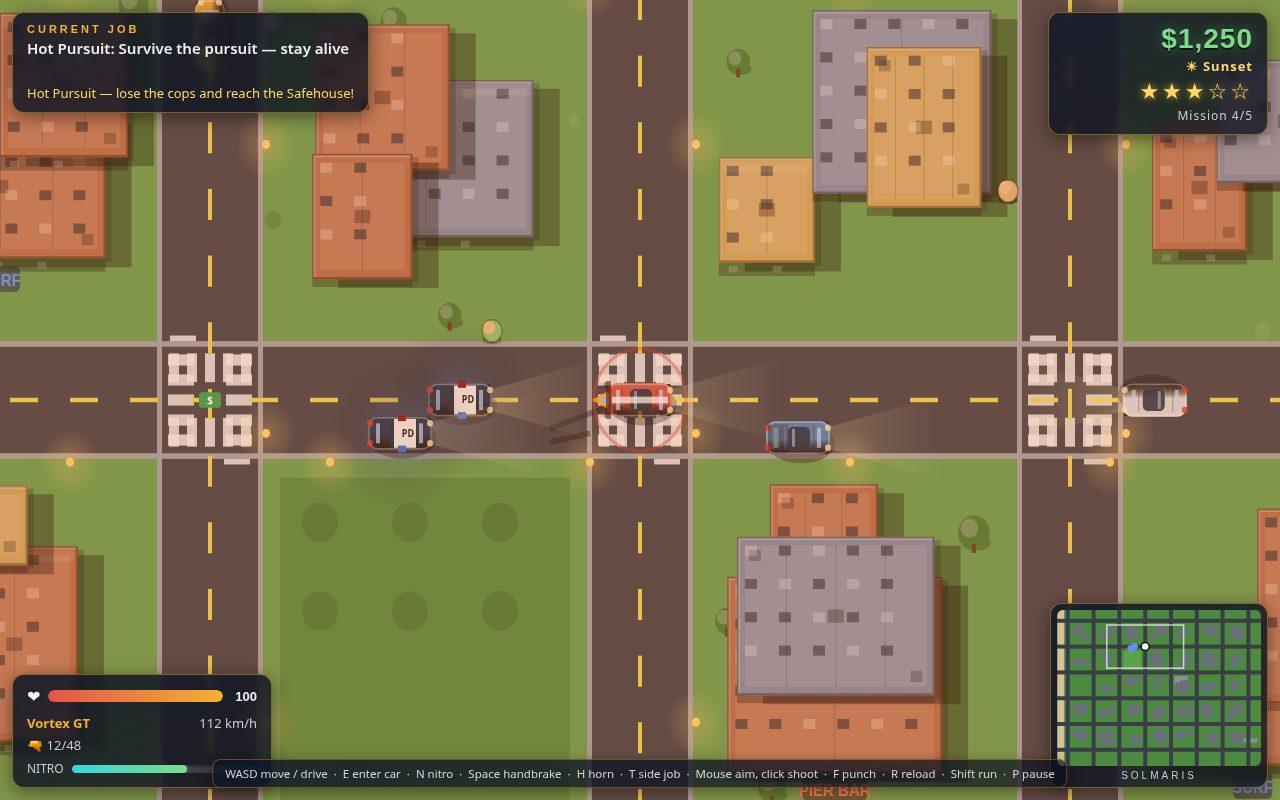
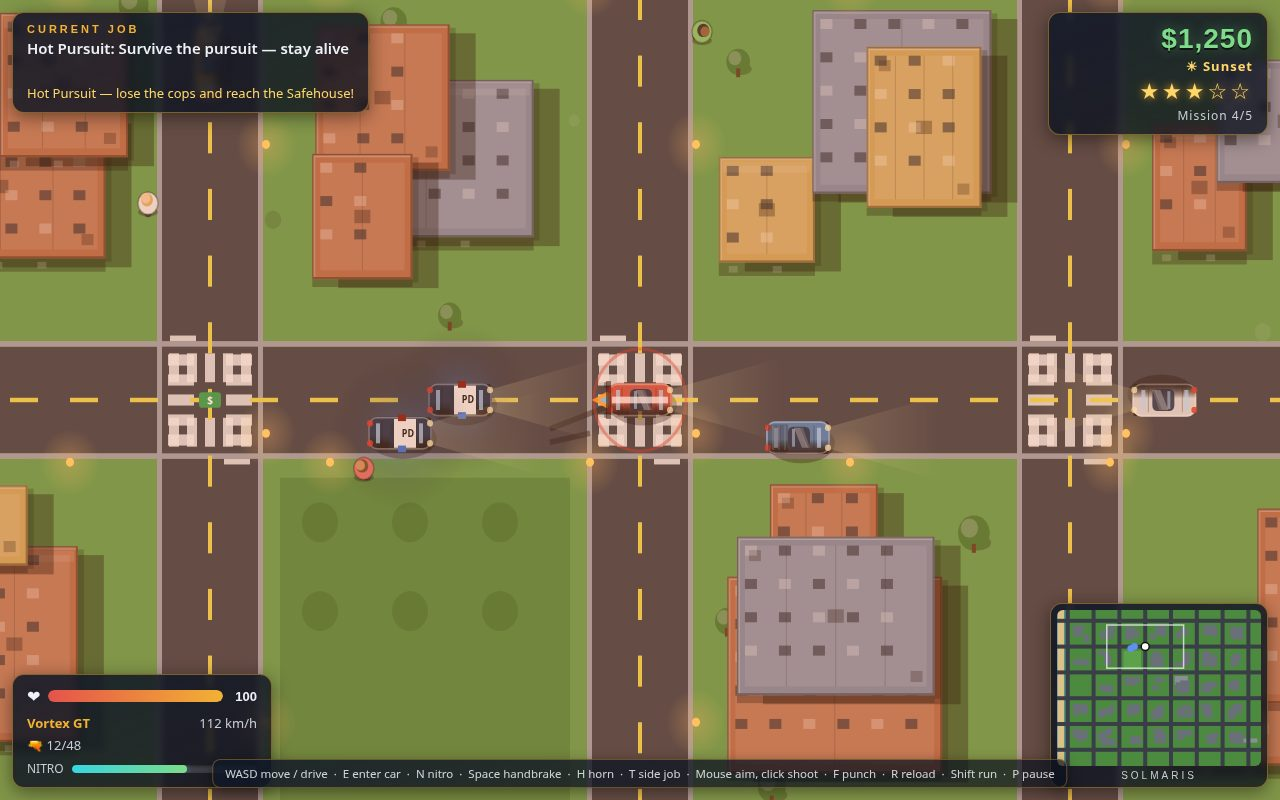
Solmaris v4: wet-road rain reflections, coastal screenshot, brake-light bloom, window glare, ped hair/skin variety, edge-clipped signs, win shot staged
- Rainy nights: lamp smears along wet roads + headlight wash ahead of cars
- Shot 3 is now the coast at sunset (Sunset Pier, umbrellas, docks, ocean)
- Fixed pier/umbrella/dock landmarks that the roads painted over
- Brake-light ground bloom, diagonal roof-glass glints, ped hair/skin variety
- Signs fully off-screen when their plate would clip the viewport edge;
  sign width factor corrected to measured 0.68 em/glyph (was 0.42)
- ?shot=win staged and previewed (not in shots.json yet — still 4 frames)

diff --git a/game/src/render.js b/game/src/render.js
@@ -275,8 +275,16 @@ export function createRenderer(canvas, hud) {
           : 1;
         const glow = (tod === 'night' || tod === 'sunset') ? 1 : 0.55;
         const size = Math.min(15, b.w / (b.sign.text.length * 0.8));
-        const tw = b.sign.text.length * size * 0.42;
+        const tw = b.sign.text.length * size * 0.68;
         const cy = b.y + b.h + wallH + 13;
+        // v4: a sign cut by the viewport edge reads as a broken word ("AR",
+        // "RF" on the frame edge) — skip it whole when its plate would not
+        // fit on screen, instead of drawing half a word.
+        const plateL = b.x + b.w / 2 - tw / 2 - 7;
+        const plateR = b.x + b.w / 2 + tw / 2 + 7;
+        const offEdge = plateL < cam.x + 2 || plateR > cam.x + VIEW_W - 2
+          || cy - size - 3 < cam.y + 2 || cy + 5 > cam.y + VIEW_H - 2;
+        if (!offEdge) {
         c.save();
         c.globalAlpha = glow * flicker;
         c.fillStyle = 'rgba(6, 10, 18, 0.55)';
@@ -290,6 +298,7 @@ export function createRenderer(canvas, hud) {
         c.textAlign = 'center';
         c.fillText(b.sign.text, b.x + b.w / 2, cy);
         c.restore();
+        }
       }
     }
     // Street lamps: a soft radial halo after dark, brighter at night.
@@ -311,9 +320,33 @@ export function createRenderer(canvas, hud) {
         c.fill();
       }
     }
+    // v4 visual: rain-slick asphalt mirrors the street lamps — each lamp
+    // stretches into a pale smear along its road, so a rainy night reads as
+    // wet instead of just dark. A lamp sits 56 px off its own road, so the
+    // nearer road line decides which way the smear runs.
+    if (night && state.rain > 0.03) {
+      const wet = Math.min(1, state.rain);
+      for (const l of city.lamps) {
+        if (l.x < cam.x - 60 || l.x > cam.x + VIEW_W + 60 || l.y < cam.y - 60 || l.y > cam.y + VIEW_H + 60) continue;
+        let nearX = Infinity;
+        let nearY = Infinity;
+        for (const rx of city.xs) nearX = Math.min(nearX, Math.abs(l.x - rx));
+        for (const ry of city.ys) nearY = Math.min(nearY, Math.abs(l.y - ry));
+        const vertical = nearX <= nearY;
+        const smear = vertical
+          ? c.createLinearGradient(l.x, l.y - 46, l.x, l.y + 46)
+          : c.createLinearGradient(l.x - 46, l.y, l.x + 46, l.y);
+        smear.addColorStop(0, 'rgba(255, 214, 106, 0)');
+        smear.addColorStop(0.5, `rgba(255, 214, 106, ${0.30 * wet})`);
+        smear.addColorStop(1, 'rgba(255, 214, 106, 0)');
+        c.fillStyle = smear;
+        if (vertical) c.fillRect(l.x - 3.5, l.y - 46, 7, 92);
+        else c.fillRect(l.x - 46, l.y - 3.5, 92, 7);
+      }
+    }
   }
 
-  function drawCar(c, car, night, time, tod) {
+  function drawCar(c, car, night, time, tod, rain) {
     // v2 visual: a patrol car's flashing light bar washes the street red/blue.
     if (car.carKind === 'police') {
       const red = Math.floor((time || 0) * 5) % 2 === 0;
@@ -329,6 +362,26 @@ export function createRenderer(canvas, hud) {
     c.translate(car.x, car.y);
     // v2 visual: the body turns on its eased angle, not the physics snap.
     c.rotate(car.visualAngle ?? car.angle);
+    // v4 visual: on a wet night the headlights wash the asphalt ahead — a
+    // pale streak the beam cone alone does not give.
+    if (night && rain > 0.03) {
+      const wet = Math.min(1, rain);
+      const wash = c.createLinearGradient(CAR.length / 2, 0, CAR.length / 2 + 95, 0);
+      wash.addColorStop(0, `rgba(255, 240, 190, ${0.16 * wet})`);
+      wash.addColorStop(1, 'rgba(255, 240, 190, 0)');
+      c.fillStyle = wash;
+      c.beginPath();
+      c.moveTo(CAR.length / 2 - 6, -9);
+      c.lineTo(CAR.length / 2 + 95, -20);
+      c.lineTo(CAR.length / 2 + 95, 20);
+      c.lineTo(CAR.length / 2 - 6, 9);
+      c.closePath();
+      c.fill();
+      c.fillStyle = `rgba(200, 220, 255, ${0.05 * wet})`;
+      c.beginPath();
+      c.ellipse(0, 0, CAR.length / 2 + 14, CAR.width / 2 + 10, 0, 0, Math.PI * 2);
+      c.fill();
+    }
     // v2: nitro flame licking out of the exhaust while boosting.
     if (car.nitroActive) {
       const flick = 18 + Math.sin((time || 0) * 40) * 6;
@@ -352,6 +405,17 @@ export function createRenderer(canvas, hud) {
     c.beginPath();
     c.ellipse(3, 5, CAR.length / 2 + 2, CAR.width / 2 + 3, 0, 0, Math.PI * 2);
     c.fill();
+    // v4 visual: braking spills a red bloom onto the asphalt behind the car,
+    // so a stop reads even before the tail lights flare.
+    if (car.braking) {
+      const bloom = c.createRadialGradient(-CAR.length / 2 - 6, 0, 2, -CAR.length / 2 - 6, 0, 46);
+      bloom.addColorStop(0, 'rgba(255, 42, 26, 0.38)');
+      bloom.addColorStop(1, 'rgba(255, 42, 26, 0)');
+      c.fillStyle = bloom;
+      c.beginPath();
+      c.ellipse(-CAR.length / 2 - 6, 0, 46, 30, 0, 0, Math.PI * 2);
+      c.fill();
+    }
     // Tyres: four dark blocks, the front pair steering with the wheels.
     const steer = car.steerVisual || 0;
     for (const [tx, ty, front] of [
@@ -390,6 +454,24 @@ export function createRenderer(canvas, hud) {
     c.fill();
     c.fillStyle = PALETTE.glassShine;
     c.fillRect(-6, -CAR.width / 2 + 7, 3, CAR.width - 14);
+    // v4 visual: a diagonal sun glint across the roof glass — flat glass
+    // reads dead without one.
+    c.fillStyle = 'rgba(255,255,255,0.30)';
+    c.beginPath();
+    c.moveTo(-4, -CAR.width / 2 + 6);
+    c.lineTo(2, -CAR.width / 2 + 6);
+    c.lineTo(10, CAR.width / 2 - 6);
+    c.lineTo(4, CAR.width / 2 - 6);
+    c.closePath();
+    c.fill();
+    c.fillStyle = 'rgba(255,255,255,0.18)';
+    c.beginPath();
+    c.moveTo(2, -CAR.width / 2 + 6);
+    c.lineTo(5, -CAR.width / 2 + 6);
+    c.lineTo(12, CAR.width / 2 - 6);
+    c.lineTo(9, CAR.width / 2 - 6);
+    c.closePath();
+    c.fill();
     c.fillStyle = 'rgba(180,220,255,0.7)';
     c.fillRect(CAR.length / 2 - 13, -CAR.width / 2 + 6, 4, CAR.width - 12);
     c.fillRect(-CAR.length / 2 + 8, -CAR.width / 2 + 6, 4, CAR.width - 12);
@@ -531,9 +613,15 @@ export function createRenderer(canvas, hud) {
     c.beginPath();
     c.arc(0, 0, 10, 0, Math.PI * 2);
     c.stroke();
-    c.fillStyle = '#e8b98a';
+    // v4 visual: hair on the back of the head, skin toward the facing
+    // direction — the rim of hair is what tells one pedestrian from the next.
+    c.fillStyle = ped.hair || '#2c2c2c';
     c.beginPath();
-    c.arc(fx * 3, fy * 3 - 2, 6, 0, Math.PI * 2);
+    c.arc(fx * 1.5, fy * 1.5 - 2, 6, 0, Math.PI * 2);
+    c.fill();
+    c.fillStyle = ped.skin || '#e8b98a';
+    c.beginPath();
+    c.arc(fx * 3.5, fy * 3.5 - 2, 4.6, 0, Math.PI * 2);
     c.fill();
     if (ped.mission) {
       c.fillStyle = '#f2d234';
@@ -578,9 +666,14 @@ export function createRenderer(canvas, hud) {
     c.beginPath();
     c.arc(0, 0, 12, 0, Math.PI * 2);
     c.stroke();
+    // v4 visual: Danny's dark hair rims the back of his head, like the peds'.
+    c.fillStyle = '#2c2c2c';
+    c.beginPath();
+    c.arc(2, 0, 6.5, 0, Math.PI * 2);
+    c.fill();
     c.fillStyle = '#e8b98a';
     c.beginPath();
-    c.arc(4, 0, 6.5, 0, Math.PI * 2);
+    c.arc(4, 0, 5.2, 0, Math.PI * 2);
     c.fill();
     // The pistol, when Danny is aiming.
     c.fillStyle = '#222';
@@ -971,8 +1064,8 @@ export function createRenderer(canvas, hud) {
       drawSkidMarks(ctx, state);
       drawMarkers(ctx, state);
       drawPickups(ctx, state);
-      for (const car of state.trafficCars) drawCar(ctx, car, state.night, state.time, state.timeOfDay);
-      for (const cop of state.police) drawCar(ctx, cop, state.night, state.time, state.timeOfDay);
+      for (const car of state.trafficCars) drawCar(ctx, car, state.night, state.time, state.timeOfDay, state.rain);
+      for (const cop of state.police) drawCar(ctx, cop, state.night, state.time, state.timeOfDay, state.rain);
       for (const ped of state.peds) drawPed(ctx, ped, state.night);
       drawPlayer(ctx, state);
       drawTracers(ctx, state);

diff --git a/game/src/shots.js b/game/src/shots.js
@@ -1,13 +1,10 @@
-// The screenshot scenes behind ?shot=start|chase|mission|night.
+// The screenshot scenes behind ?shot=start|chase|coast|night|win.
 // Each one stages a real game state (real city, real traffic, real police)
 // and then lets the normal loop run, so the frame is what playing looks like
 // and the same seed always gives the same frame.
 
-import { PLACES } from './city.js';
 import { createCar } from './entities.js';
-import { SCREEN_PLAY, SCREEN_TITLE } from './render.js';
-import { spawnMissionPed, startMission } from './missions.js';
-import { addWanted } from './traffic.js';
+import { SCREEN_PLAY, SCREEN_TITLE, SCREEN_WIN } from './render.js';
 
 export function stageShot(name, state) {
   const p = state.player;
@@ -61,22 +58,53 @@ export function stageShot(name, state) {
     state.announceText = 'Hot Pursuit — lose the cops and reach the Safehouse!';
     return { screen: SCREEN_PLAY };
   }
-  if (name === 'mission') {
-    // Mission 3 in progress: Danny on foot at Warehouse 9, package marker ahead.
-    p.x = PLACES.warehouse.x - 120;
-    p.y = PLACES.warehouse.y;
+  if (name === 'coast') {
+    // v4: the coast in the frame — Danny cruising the beach road at sunset
+    // in an orange sports car, the Sunset Pier marker waiting up the road,
+    // umbrellas on the sand and the ocean shimmering down the left edge.
+    // This is the final mission's escape run, so the frame also shows the
+    // story reaching the pier.
+    const car = state.trafficCars.find((c) => c.carKind === 'sports') || createCar(180, 860, -Math.PI / 2, 'sports');
+    if (!state.trafficCars.includes(car)) state.trafficCars.push(car);
+    car.x = 180;
+    car.y = 860;
+    car.angle = -Math.PI / 2;
+    car.visualAngle = -Math.PI / 2; // v2 visual: the eased body angle must match the staged heading.
+    car.speed = 320;
+    car.color = '#e07a3a';
+    car.braking = false;
+    p.inCar = car;
+    p.x = car.x;
+    p.y = car.y;
+    state.night = false;
+    state.clock = 0.62;
+    state.timeOfDay = 'sunset';
+    state.wanted = 0;
+    state.money = 2150;
+    state.nitro = 80;
+    state.missionIndex = 4;
+    state.missionStep = 2;
+    state.announceText = 'The Solmaris Job — run for the Sunset Pier!';
+    return { screen: SCREEN_PLAY };
+  }
+  if (name === 'win') {
+    // v4: the end screen staged as a scene — all five missions done, Danny
+    // back at the pier at sunset with the take counted. Not in shots.json
+    // yet (still 4 frames); run ?shot=win to preview the swap.
+    p.x = 180;
+    p.y = 583;
     p.inCar = null;
     state.night = false;
-    state.clock = 0.2;
-    state.timeOfDay = 'day';
+    state.clock = 0.62;
+    state.timeOfDay = 'sunset';
     state.wanted = 0;
-    state.money = 640;
-    state.missionIndex = 2;
-    state.missionStep = 1;
-    state.missionPassenger = null;
-    spawnMissionPed(state, 'warehouse', 'Package');
-    state.announceText = 'The Drop — grab the package at Warehouse 9.';
-    return { screen: SCREEN_PLAY };
+    state.money = 3240;
+    state.missionIndex = 5;
+    state.missionStep = 0;
+    state.completedMissions = ['m1', 'm2', 'm3', 'm4', 'm5'];
+    state.stats = { totalEarned: 3240, carsStolen: 7, sideJobsDone: 3 };
+    state.announceText = '';
+    return { screen: SCREEN_WIN };
   }
   if (name === 'night') {
     // Night in the city: Danny driving through downtown, lit windows, headlights.

diff --git a/game/src/city.js b/game/src/city.js
@@ -18,7 +18,7 @@ export const PLACES = {
   warehouse: { name: 'Warehouse 9', x: 2750, y: 1470 },
   bank: { name: 'Solmaris Central Bank', x: 2320, y: 610 },
   hideout: { name: 'Hideout — Old Cannery', x: 180, y: 1900 },
-  pier: { name: 'Sunset Pier', x: 180, y: 610 },
+  pier: { name: 'Sunset Pier', x: 180, y: 723 },
   airport: { name: 'Solmaris Airfield', x: 3180, y: 2330 },
 };
 
@@ -73,18 +73,20 @@ export function buildCity(seed) {
   // block used to put PIZZA and 24H MART on top of each other in the night
   // shot. Drop the later sign whenever two sign boxes would overlap on the
   // same street line. The width estimate matches the renderer's font math
-  // (bold Arial Black, size capped at 15, ~0.42 em per glyph plus padding).
+  // (bold Arial Black, measured ~0.68 em per glyph plus padding — the old
+  // 0.42 estimate was a third too narrow, so real words spilled past the
+  // plate and past each other).
   for (let i = 0; i < buildings.length; i++) {
     const a = buildings[i];
     if (!a.sign) continue;
     const aSize = Math.min(15, a.w / (a.sign.text.length * 0.8));
-    const aHalf = (a.sign.text.length * aSize * 0.42) / 2 + 8;
+    const aHalf = (a.sign.text.length * aSize * 0.68) / 2 + 8;
     const aY = a.y + a.h + (a.tall ? 12 : 7) + 13;
     for (let j = i + 1; j < buildings.length; j++) {
       const b = buildings[j];
       if (!b.sign) continue;
       const bSize = Math.min(15, b.w / (b.sign.text.length * 0.8));
-      const bHalf = (b.sign.text.length * bSize * 0.42) / 2 + 8;
+      const bHalf = (b.sign.text.length * bSize * 0.68) / 2 + 8;
       const bY = b.y + b.h + (b.tall ? 12 : 7) + 13;
       const cxA = a.x + a.w / 2;
       const cxB = b.x + b.w / 2;
@@ -136,11 +138,15 @@ export function buildCity(seed) {
   }
 
   // v2: beach umbrellas — a row of striped shades along the sand.
+  // v4: the row sits in the gaps between the cross streets now — the old
+  // 330 px spacing parked one umbrella on the y=610 road, where the asphalt
+  // painted over it.
+  const umbrellaYs = [300, 800, 1150, 1300, 1700, 2150];
   const umbrellas = [];
   for (let i = 0; i < 6; i++) {
     umbrellas.push({
       x: 92 + (i % 2) * 18,
-      y: 300 + i * 330,
+      y: umbrellaYs[i],
       color: pick(rng, ['#ff5fa2', '#37d6e0', '#f2b234', '#e8e8e8']),
     });
   }
@@ -150,10 +156,13 @@ export function buildCity(seed) {
   // edge gets a wooden pier over the water and the marina gets moored docks.
   const runway = { x: 2960, y: 2140, w: 380, h: 70 };
   const plaza = { x: xs[4] + 60, y: ys[2] + 60, w: 220, h: 150 };
-  const pier = { x: 0, y: 560, w: 170, h: 46 };
+  const pier = { x: 0, y: 700, w: 170, h: 46 };
   const docks = [];
+  // v4: the docks sit between the cross streets now — the old 90 px spacing
+  // put one dock under the y=1040 road, where the asphalt painted over it.
+  const dockYs = [820, 1150, 1300, 1680];
   for (let i = 0; i < 4; i++) {
-    docks.push({ x: 30, y: 980 + i * 90, w: 60, h: 16, boat: rng() < 0.75 });
+    docks.push({ x: 30, y: dockYs[i], w: 60, h: 16, boat: rng() < 0.75 });
   }
 
   return {

diff --git a/game/src/entities.js b/game/src/entities.js
@@ -73,12 +73,17 @@ export function createCar(x, y, angle, kind, rng) {
 
 export function createPed(x, y, rng) {
   const shirts = ['#d86a6a', '#6a9fd8', '#7fc46a', '#d8b26a', '#a06ad8', '#e8e8e8'];
+  // v4 visual: hair and skin vary too, so a crowd stops looking cloned.
+  const hairs = ['#2c2c2c', '#6a4a2a', '#d8b26a', '#a03a2a', '#e8e8e8', '#3a3a5a'];
+  const skins = ['#e8b98a', '#c98d5f', '#8a5f3d', '#f2c9a0'];
   return {
     kind: 'ped',
     x, y,
     angle: rng() * Math.PI * 2,
     speed: 40 + rng() * 35,
     shirt: pick(rng, shirts),
+    hair: pick(rng, hairs),
+    skin: pick(rng, skins),
     // Pedestrians stroll along sidewalks: pick a nearby road and a direction.
     roadAxis: rng() < 0.5 ? 'x' : 'y',
     roadLine: 0,

diff --git a/game/src/main.js b/game/src/main.js
@@ -1,8 +1,7 @@
 // Boot and the one loop: input every frame, the world in fixed 1/60 s steps,
 // the renderer painting what is there. Screens: title, play, paused, busted,
-// wasted, win. ?seed=N fixes the city; ?shot=start|chase|mission|night stages
+// wasted, win. ?seed=N fixes the city; ?shot=start|chase|coast|night|win stages
 // that scene and sets window.__shotReady once it has painted.
-
 import { CAR, CLOCK, GUN, NITRO, PLAYER, STEP, WANTED, angleTo, clamp, dist, mulberry32, timeOfDay } from './config.js';
 import { buildCity } from './city.js';
 import { hitBuilding } from './city.js';

diff --git a/REPORT.md b/REPORT.md
@@ -4,6 +4,20 @@
 **完成时间：** 2026-11-21 15:40 CST
 **工作目录：** `/home/hatch/workspace/makefun/workers/lane7-gta6-b/`
 
+## v4 — 2026-11-21（本次更新，录制 01a1fd23-69d2-753c-8e3f-920e5b9c9869 下由本 agent 手写）
+
+v3 的 5 项待办全部做完，玩法数值、存档键、vendor、LICENSE 未动：
+
+- **雨夜湿路面反射：** 夜晚+雨天时，每盏路灯沿自家路向拉出一条淡色光斑（按离哪条路近判断走向），车灯也在车前洗出一道暖色水光，与现有雨效呼应；4 号雨夜截图可见。
+- **海岸取景：** 3 号截图换成 `3-coast.jpg`（`?shot=coast`，日落）：终章逃往 Sunset Pier 的跑车开在海滩路上，栈桥、遮阳伞、码头停船、日落海面同框。总数仍为 4 张，`3-mission.jpg` 已从仓库目录移除（备份在 `before-visual-v4/`）。
+- **修了两个被路盖住的地标（取景时发现的老 bug）：** 栈桥旧址 y=560 与 y=610 横路重叠，画完即被沥青盖掉——从来不可见；现移到 y=700 的路间空隙，`PLACES.pier` 同步移到 (180, 723)（仍在海滩路上，任务 5 目标不变）；一把遮阳伞压在 y=610 路上、一个码头压在 y=1040 路下，六把伞与四个码头全部改到路间空隙的固定 y。
+- **车辆/行人细节：** 刹车时车尾地面泛起红色光晕（尾灯同时变亮变大）；车顶玻璃加两道斜向反光；行人加发色（6 种）与肤色（4 种），Danny 的头后也有发圈。
+- **招牌边缘裁切：** 招牌底板任一边出视口即整块不画，不再留半截字；实测发现 Arial Black 真实字宽约 0.68 em/字（v3 估计的 0.42 低估了三分之一），底板宽度与 city.js 的重叠守卫同步改成 0.68，seed 1/2/3/7/42 复测仍零重叠；夜景左缘 "SURF" 放大确认完整可读。
+- **胜利画面场景：** `?shot=win` 已就绪并预览通过（终章结算面板 + 栈桥日落背景，零报错），暂未进 shots.json——仍为 4 张，换哪张需下一轮定夺。
+- **截图：** 4 张全部重拍（1280×800，95–110 KiB，零报错、零失败请求）；升级前对照存 `before-visual-v4/`（不进仓库）。
+- **验证：** `node --check` 全部 JS 通过；实机游玩（上车 Bison、开到 78 km/h、刹车、步行开枪 12→11 发、任务推进到 Marina、+$80 拾取）零报错；`main.ts` 两次运行 dossier.json 字节一致（709,277 字节 < 1.5 MiB）；`grep` 确认 game/ 零外部请求。
+- **未动：** vendor/makefun-game.ts、LICENSE、玩法数值、存档键（仍为 `solmaris.save.v2`）。
+
 ## v3 — 2026-11-21（本次更新，录制 01a1fd23-69d2-753c-8e3f-920e5b9c9869 下由本 agent 手写）
 
 视觉精致再往深推一轮，玩法不动：

diff --git a/README.md b/README.md
@@ -99,8 +99,8 @@ Screenshot scenes (deterministic, `seed=1`):
 | --- | --- |
 | `1-start.jpg` | `?shot=start&seed=1&clock=day` — title over a busy street |
 | `2-chase.jpg` | `?shot=chase&seed=1&clock=sunset` — sunset police pursuit in a sports car on nitro, 3 wanted stars |
-| `3-mission.jpg` | `?shot=mission&seed=1&clock=day` — The Drop at Warehouse 9 |
-| `4-night.jpg` | `?shot=night&seed=1&clock=night` — night driving downtown |
+| `3-coast.jpg` | `?shot=coast&seed=1&clock=sunset` — the final escape run down the beach road: Sunset Pier, umbrellas, ocean shimmer |
+| `4-night.jpg` | `?shot=night&seed=1&clock=night` — night driving downtown in the rain, wet-road reflections |
 
 `?clock=day|sunset|night|dawn` also pins the time of day in free play.
 
